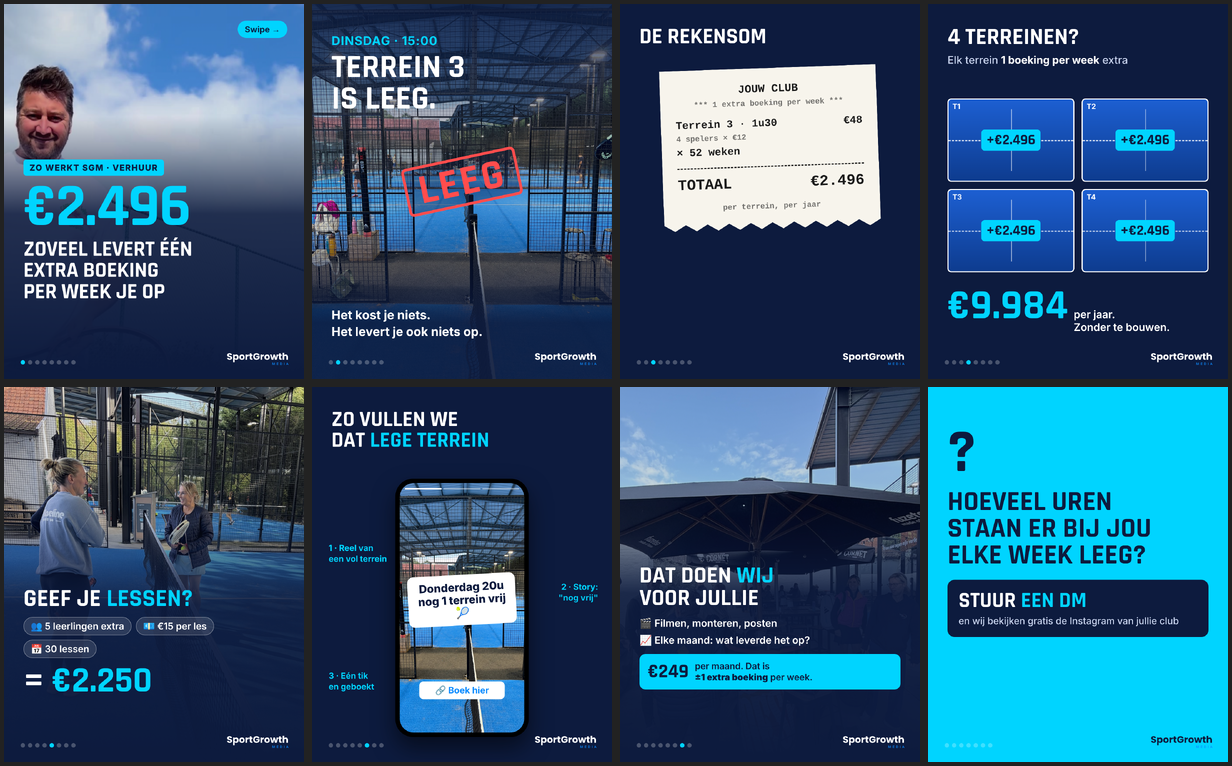
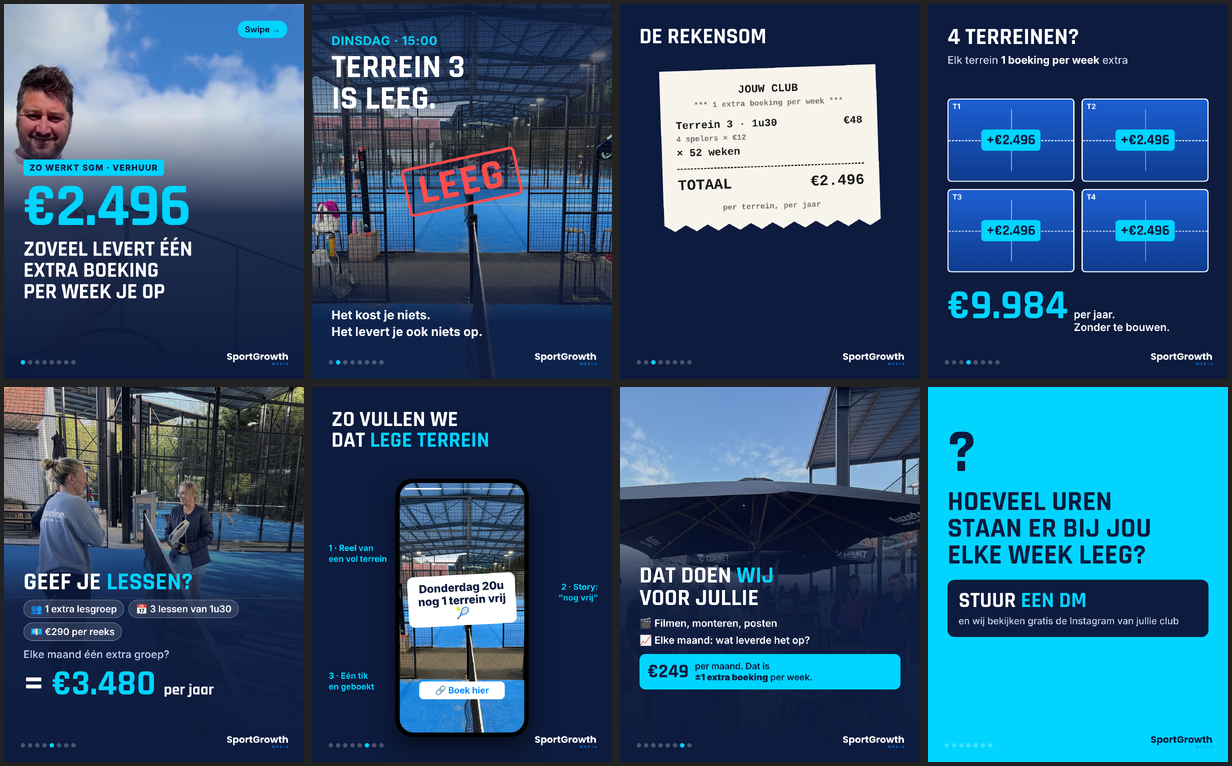
Carrousel: lessen met echte prijs (€290 per reeks)
Claude-Session: https://claude.ai/code/session_01QkSWZzWLTduRQtPp2zathG

Changed region(s): [[0.0, 0.7507, 0.2159, 0.9308]]

diff --git a/instagram/carrousel-extra-uur/build.js b/instagram/carrousel-extra-uur/build.js
@@ -88,12 +88,13 @@ S.push(page(4, `
 S.push(page(5, `
 <div class="bg" style="background-image:${i64(B2 + '/padel-lachen-aan-net.jpg')};background-position:center 30%"></div>
 <div class="dim" style="background:linear-gradient(180deg,rgba(13,27,62,.1) 0%,rgba(13,27,62,.15) 35%,rgba(13,27,62,.92) 58%,#0d1b3e 100%)"></div>
-<div class="col" style="top:720px;gap:24px">
+<div class="col" style="top:660px;gap:22px">
 <h2 style="font-size:88px">Geef je <span class="c">lessen?</span></h2>
 <div style="display:flex;gap:16px;flex-wrap:wrap">
-${['👥 5 leerlingen extra','💶 €15 per les','📅 30 lessen'].map(x=>`<span style="background:rgba(255,255,255,.12);border:2px solid rgba(255,255,255,.35);border-radius:40px;padding:14px 24px;font:600 34px/1 In">${x}</span>`).join('')}
+${['👥 1 extra lesgroep','📅 3 lessen van 1u30','💶 €290 per reeks'].map(x=>`<span style="background:rgba(255,255,255,.12);border:2px solid rgba(255,255,255,.35);border-radius:40px;padding:14px 24px;font:600 34px/1 In">${x}</span>`).join('')}
 </div>
-<div style="font:700 130px/.9 Rj">= <span class="c">€2.250</span></div>
+<p class="t" style="font-size:38px">Elke maand één extra groep?</p>
+<div style="font:700 130px/.9 Rj">= <span class="c">€3.480</span> <span style="font-size:56px">per jaar</span></div>
 </div>`));
 // 6 WAAR KOMEN ZE VANDAAN · gsm met story
 S.push(page(6, `

diff --git a/instagram/carrousel-extra-uur/README.md b/instagram/carrousel-extra-uur/README.md
@@ -1,3 +1,3 @@
 # Carrousel ma 9/11 · "Zoveel levert één extra geboekt uur per week je op" (ZO WERKT SGM · VERHUUR)
 `node build.js` → slide01-08.png (1080x1350). Caption: caption.txt. Cover: jari-tennis-lacht.jpg (gezicht + cijfer, zie statistieken.md).
-Rekenvoorbeeld (prijs Jari 6/11: 1u30 = €48-52): €48 per boeking (4 × €12), 52 weken = €2.496. Lessen: 5 × €15 × 30. Mini €249/maand = ±€57/week ≈ 1,2 boeking.
+Rekenvoorbeeld (prijs Jari 6/11: 1u30 = €48-52): €48 per boeking (4 × €12), 52 weken = €2.496. Lessen (prijs Jari): €290 per groep per reeks van 3 lessen van 1u30; elke maand 1 extra groep = €3.480. Mini €249/maand = ±€57/week ≈ 1,2 boeking.
